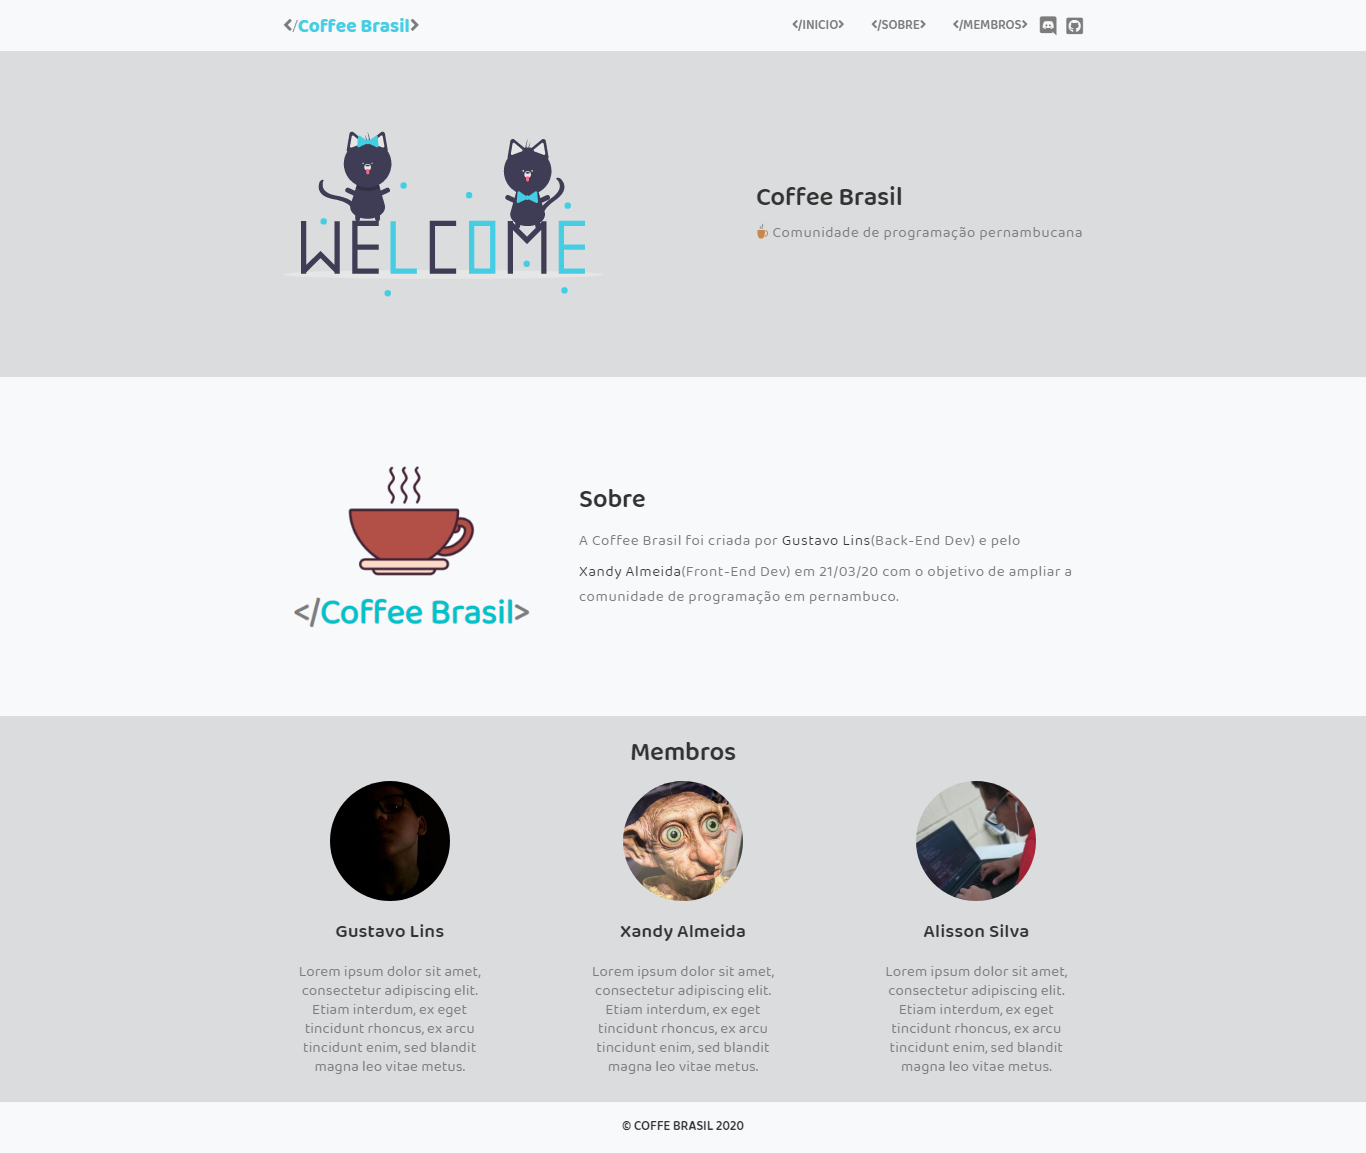
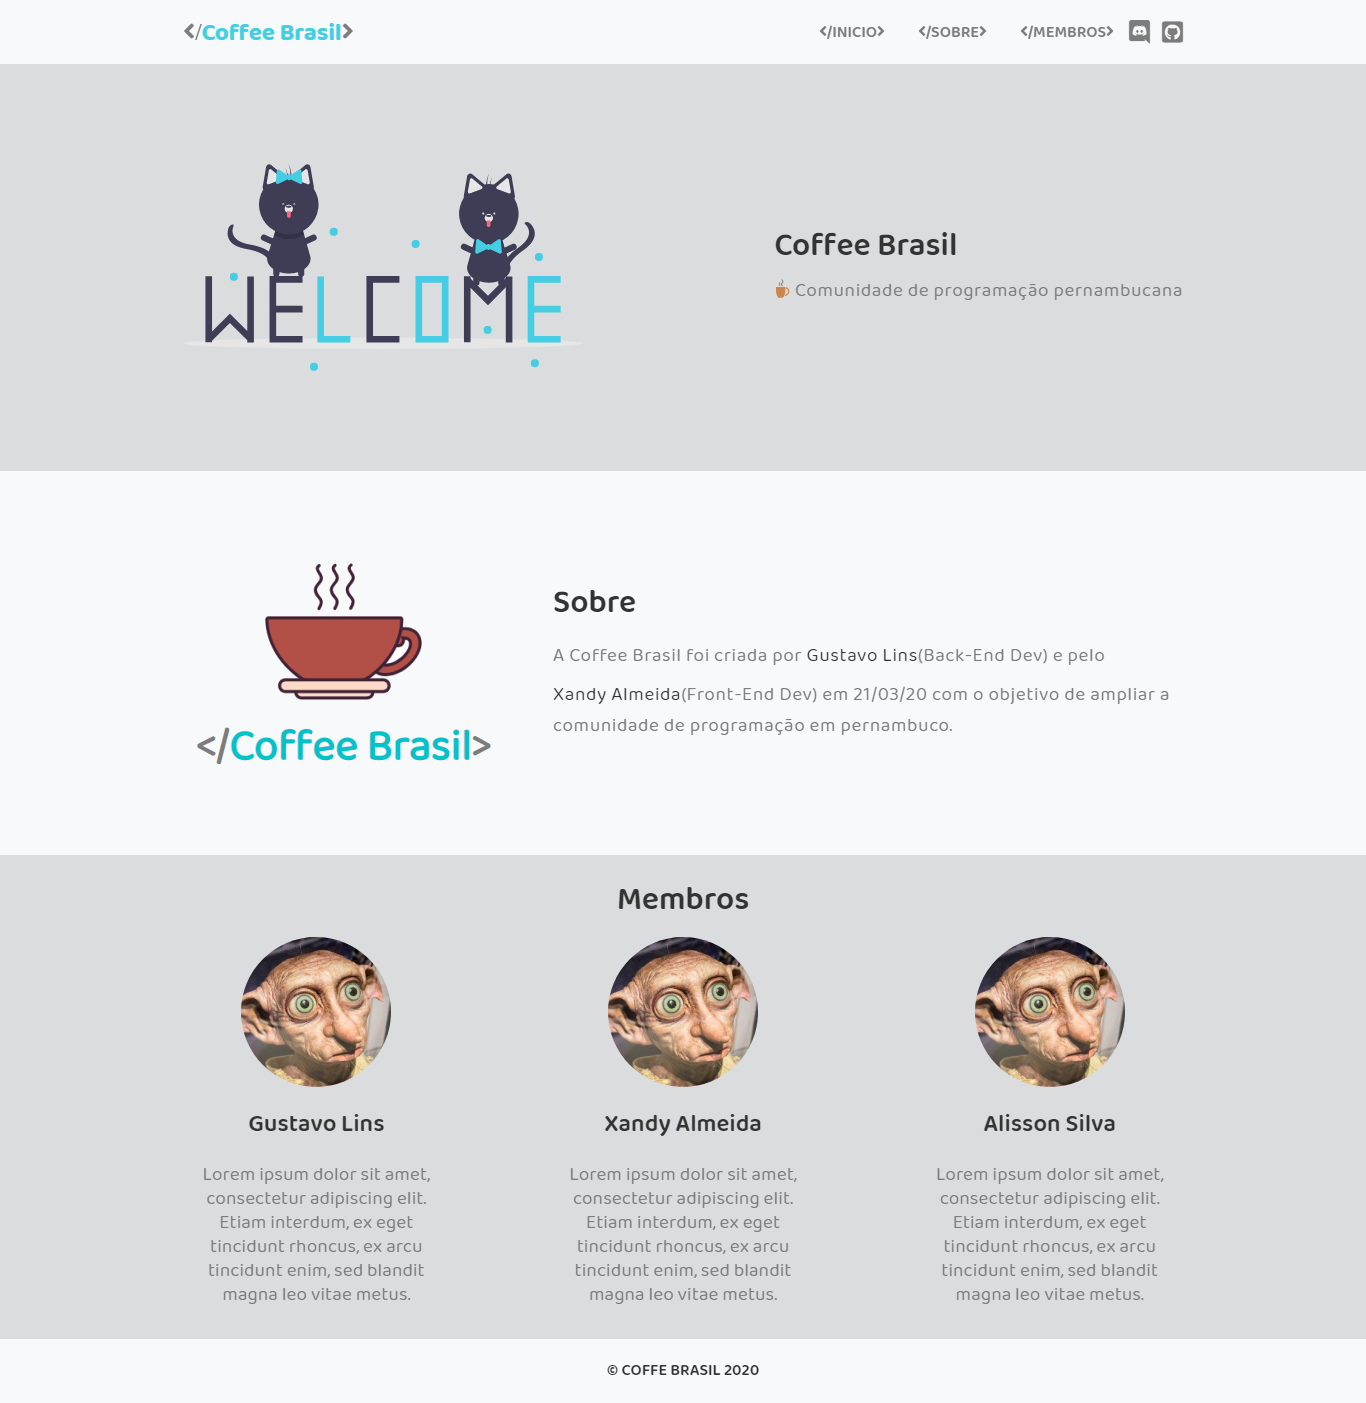
✨ Update README.md

diff --git a/src/index.html b/src/index.html
@@ -49,7 +49,7 @@
             <h1 class="membro-title">Membros</h1>
             <div class="area-membro">
               <div class="membro">
-                <img src="https://avatars1.githubusercontent.com/u/60306241?s=460&u=531a2ba97a3ba3a58aad3e81c6f198e8a9c413d0&v=4" alt="Gustavo Lins">
+                <img src="https://avatars2.githubusercontent.com/u/52722388?s=460&u=ce89f87e61e35c4bb21d3324d272825fbd23b167&v=4" alt="Gustavo Lins">
                 <div class="membro-info">
                   <h2 class="efeito">Gustavo Lins</h2>
                   <p>Lorem ipsum dolor sit amet, consectetur adipiscing elit. Etiam interdum, ex eget tincidunt rhoncus, ex arcu tincidunt enim, sed blandit magna leo vitae metus.</p>
@@ -65,7 +65,7 @@
 
               
               <div class="membro">
-                <img src="https://cdn.discordapp.com/avatars/666314503096631328/84917ee5d7c1070ebb19907cbfa91e26.png?size=128" alt="Alisson Silva">
+                <img src="https://avatars2.githubusercontent.com/u/52722388?s=460&u=ce89f87e61e35c4bb21d3324d272825fbd23b167&v=4" alt="Alisson Silva">
                 <div class="membro-info">
                   <h2 class="efeito">Alisson Silva</h2>
                   <p>Lorem ipsum dolor sit amet, consectetur adipiscing elit. Etiam interdum, ex eget tincidunt rhoncus, ex arcu tincidunt enim, sed blandit magna leo vitae metus.</p>

diff --git a/README.md b/README.md
@@ -26,5 +26,7 @@
 </h1>
 <h1 align="center">
   Mobile
+</h1>
+<h1 align="center">
   <img alt="Layout mobile" src="./src/img/layout-mobile.png" />
 </h1>
